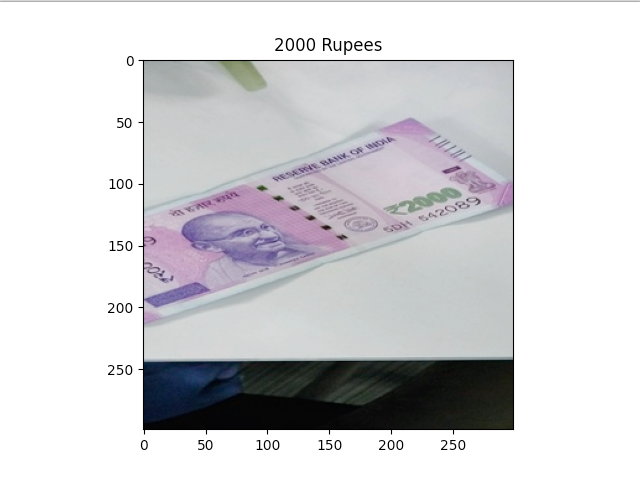
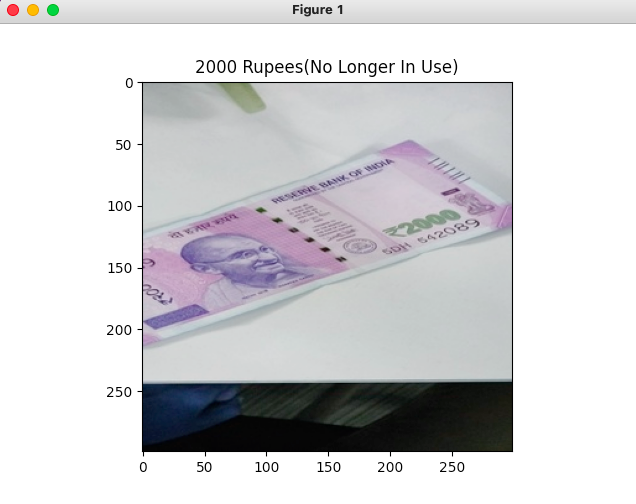
m

Changed region(s): [[0.0, 0.0, 1.0, 0.9336], [0.1792, 0.249, 0.2091, 0.3112]]

diff --git a/prediction1.py b/prediction1.py
@@ -22,7 +22,7 @@ model2.compile(
 )
 
 
-img = cv2.imread('/Users/arunkaul/Desktop/Currency ML Project/10_test.jpg')
+img = cv2.imread('/Users/arunkaul/Desktop/Currency ML Project/2000_test.jpg')
 plt.imshow(img)
 
 img = np.asarray(img) / (255.0)
@@ -30,8 +30,12 @@ img = img.reshape(-1, 299, 299, 3)
 
 prediction = model2.predict(img)
 if np.array(prediction)[0,np.argmax(prediction)] >= 0.8:
-    plt.title(d[np.argmax(prediction)]+" Rupees")
-    plt.show()
+    if np.argmax(prediction) != 2:
+        plt.title(d[np.argmax(prediction)]+" Rupees")
+        plt.show()
+    elif np.argmax(prediction) == 2:
+         plt.title(d[np.argmax(prediction)]+" Rupees(No Longer In Use)")
+         plt.show()
 else:
     plt.title("This Is Not Indian Currency")
     plt.show()

diff --git a/README.md b/README.md
@@ -6,7 +6,7 @@
 
 ## Working
 
-#### In my project, I applied transfer learning to boost the accuracy of predictions on my dataset. Specifically, I chose the Xception Deep Learning Algorithm because it showed the highest accuracy. To tailor it for my dataset, I added my own neural network layers. By tweaking various hyperparameters, I fine-tuned the model to achieve the best training and testing errors. This way, I made sure the algorithm worked efficiently for my specific needs
+#### In my project, I applied transfer learning to boost the accuracy of predictions on my dataset. Specifically, I chose the Xception Deep Learning Algorithm because it showed the highest accuracy. My dataset includes images of 10,20,50,100,200,500,2000 Rupees Images.To tailor it for my dataset, I added my own neural network layers. By tweaking various hyperparameters, I fine-tuned the model to achieve the best training and testing errors. This way, I made sure the algorithm worked efficiently for my specific needs
 
 ## Architecture 
 ![Alt text](structure.png)
